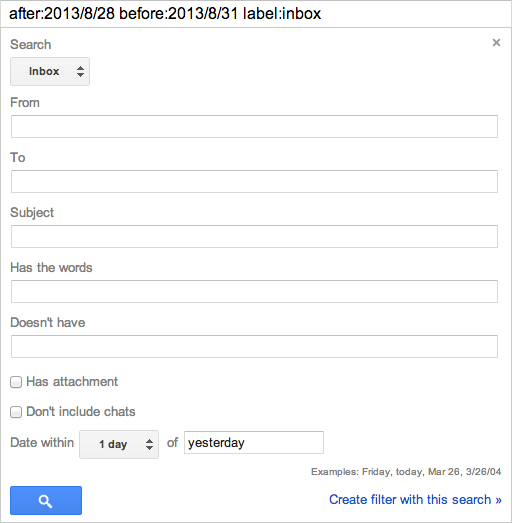
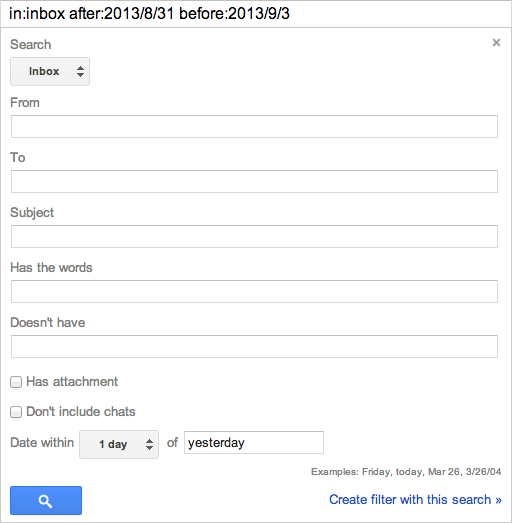
Fix yesterboxmarklet and update post

Changed region(s): [[0.0, 0.0, 0.625, 0.0612]]

diff --git a/js/bookmarklets/yesterboxmarklet.js b/js/bookmarklets/yesterboxmarklet.js
@@ -1,4 +1,4 @@
-javascript: (function () {
+(function () {
   var now = new Date();
 
   var year = now.getFullYear();
@@ -8,12 +8,13 @@ javascript: (function () {
   var today = year + "/" + month + "/" + day;
   var yesterday = year + "/" + month + "/" + (day - 1)
 
-  var yesterbox = "https://mail.google.com/mail/u/0/?ui=2&shva=1#search/after";
+  var yesterbox = "https://mail.google.com/mail/u/0/?ui=2&shva=1#search/";
+  yesterbox += "+in";
+  yesterbox += encodeURIComponent(":inbox");
+  yesterbox += "+after";
   yesterbox += encodeURIComponent(":" + yesterday);
   yesterbox += "+before";
   yesterbox += encodeURIComponent(":" + today);
-  yesterbox += "+label"
-  yesterbox += encodeURIComponent(":inbox");
 
   window.location.href = yesterbox;
 })();

diff --git a/yesterboxmarklet.html b/yesterboxmarklet.html
@@ -1,0 +1,11 @@
+---
+---
+<!doctype html>
+<html>
+  <head></head>
+  <body></body>
+  <!-- JavaScript at the bottom for fast page loading -->
+  {% include google_analytics.html %}
+  <script src="js/bookmarklets/yesterboxmarklet.js"></script>
+</html>
+

diff --git a/css/default.scss b/css/default.scss
@@ -56,6 +56,10 @@ blockquote {
   padding-left: 20px;
 }
 
+em {
+  font-weight: bold;
+}
+
 div#main_site_content {
   margin: 0 auto;
   max-width: 960px;

diff --git a/_posts/2013-08-30-yesterboxmarklet.md b/_posts/2013-08-30-yesterboxmarklet.md
@@ -15,15 +15,16 @@ powerful:
 
 Now you have a finite list of emails to reply to each day :)
 
-It sounded intriguing so I thought I would give it a try. It quickly became
-apparent, however, that it would be difficult to emulate in Gmail (my email
-client of choice) as there is no convenient way to view yesterday's emails
-without performing a custom advanced search each time you want to view your
-Yesterbox.
+This idea sounded intriguing to me, so I thought I would give it a try. It
+quickly became apparent, however, that it would be difficult to emulate in
+Gmail (my email client of choice) as there is no convenient way to view
+yesterday's emails without performing a custom advanced search each time you
+want to view your Yesterbox.
 
 The closest I managed to get was to perform an advanced search, filtering by
 "Date within 1 day of yesterday". Unfortunately this resulted in emails from
-the day before and after yesterday being included in the search results.
+the day before and after yesterday being included in the search results. Not
+what I wanted.
 
 <div class="article-image">
   <img alt="Desired search"
@@ -37,37 +38,38 @@ the day before and after yesterday being included in the search results.
   <img alt="Closest search"
        src="/images/posts/2013-08-30-yesterboxmarklet/closest-search.png">
   <div class="article-image-caption">
-    The closest, actual search I could perform using Gmail's advanced search interface
+    The closest, actual search I could perform using Gmail's advanced search interface which seems to actually be buggy
   </div>
 </div>
 
-I performed a cursory search on the internet to find a solution native to
-Gmail, but without luck, so I tried the first approach to fixing the problem
-that came to mind: I wrote a <a href="javascript: (function () { var jsCode =
-document.createElement('script'); jsCode.setAttribute('src',
-'http://markscholtz.com/js/bookmarklets/yesterbox.js');
-document.body.appendChild(jsCode); }());" title="Yesterbox"> bookmarklet for
-Yesterbox </a> that filters your email so that you have a view of yesterday's
-emails only.
+<p>
+I then performed a cursory search on the internet to find a solution native to
+Gmail, but without luck. The first approach to fixing the problem that came to
+mind was writing a bookmarklet. So I did that. I like to call it
+<a href="javascript:window.open('http://markscholtz.com/yesterboxmarklet.html');void(0)" title="Yesterboxmarklet">Yesterboxmarklet</a>,
+a bookmarklet that filters your email in Gmail so that you have a view of
+yesterday's emails only.
+</p>
 
-Try clicking <a href="javascript: (function () { var jsCode =
-document.createElement('script'); jsCode.setAttribute('src',
-'http://markscholtz/js/bookmarklets/yesterbox.js');
-document.body.appendChild(jsCode); }());" title="Yesterbox">Yesterbox</a> to
-test it out (you need to be logged in to Gmail for it to work). If you like it
-the results and want to try out Yesterbox, drag the bookmarklet link up to your
-bookmarks bar to save it permanently. Give it a click. If all goes well, voila!
-Yesterbox in Gmail!
+Try clicking
+<a href="javascript:window.open('http://markscholtz.com/yesterboxmarklet.html');void(0)" title="Yesterboxmarklet">Yesterboxmarklet</a>
+to test it out (you need to be logged in to Gmail for it to work). If you like
+the results and want to try out the Yesterbox approach for a while to see if it
+suits you, drag the bookmarklet link up to your browser's bookmarks bar to save
+it permanently. Give it a click. If all goes well, voila!  Yesterbox in Gmail!
 
-Disclaimer: I've only tested this in the latest version of Chrome on OS X. It's
-not perfect and has a few issues. For example it doesn't seem to work from a
-new Chrome tab. Any feedback or bug reports welcome.
-
-And here is the code for those interested:
+*Disclaimer*: I've only tested this on the latest versions of Chrome, Safari
+and Firefox on OS X. It's not perfect and has a few issues. For example,
+searches on the first day of the month work, but the "after" day in the date
+filter is 0. It also doesn't work on Chrome's new tab page, which is a result
+of security measures put in place by the Chrome team. Also, this bookmarklet
+went through many iterations and was more a pain to write than I thought.
+Currently it just opens a new window pointing to a page on this site that runs
+the below code. Any feedback on this approach or bug reports are most welcome.
 
 <div class="code-header">Yesterbox</div>
 {% highlight javascript linenos %}
-  javascript: (function () {
+  (function () {
     var now = new Date();
 
     var year = now.getFullYear();
@@ -77,20 +79,15 @@ And here is the code for those interested:
     var today = year + "/" + month + "/" + day;
     var yesterday = year + "/" + month + "/" + (day - 1)
 
-    var yesterbox = "https://mail.google.com/mail/u/0/?ui=2&shva=1#search/after";
+    var yesterbox = "https://mail.google.com/mail/u/0/?ui=2&shva=1#search/";
+    yesterbox += "+in";
+    yesterbox += encodeURIComponent(":inbox");
+    yesterbox += "+after";
     yesterbox += encodeURIComponent(":" + yesterday);
     yesterbox += "+before";
     yesterbox += encodeURIComponent(":" + today);
-    yesterbox += "+label"
-    yesterbox += encodeURIComponent(":inbox");
 
     window.location.href = yesterbox;
   })();
-
-  javascript: (function () {
-    var jsCode = document.createElement('script');
-    jsCode.setAttribute('src', 'http://markscholtz.com/');
-    document.body.appendChild(jsCode);
-  }());
 {% endhighlight %}
 
